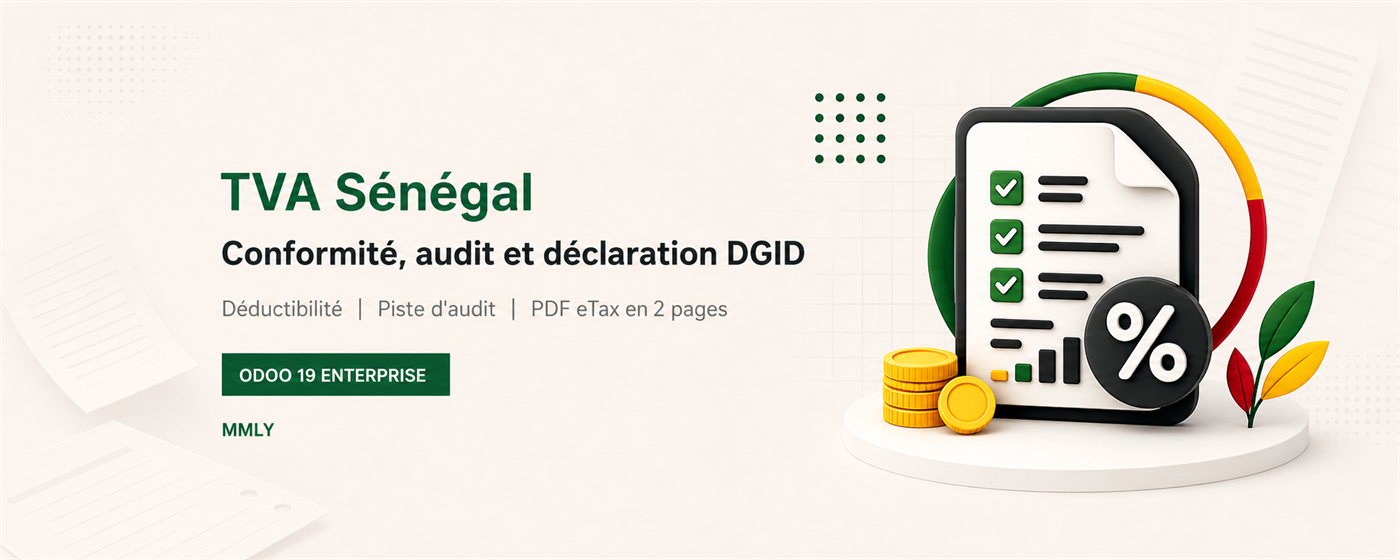
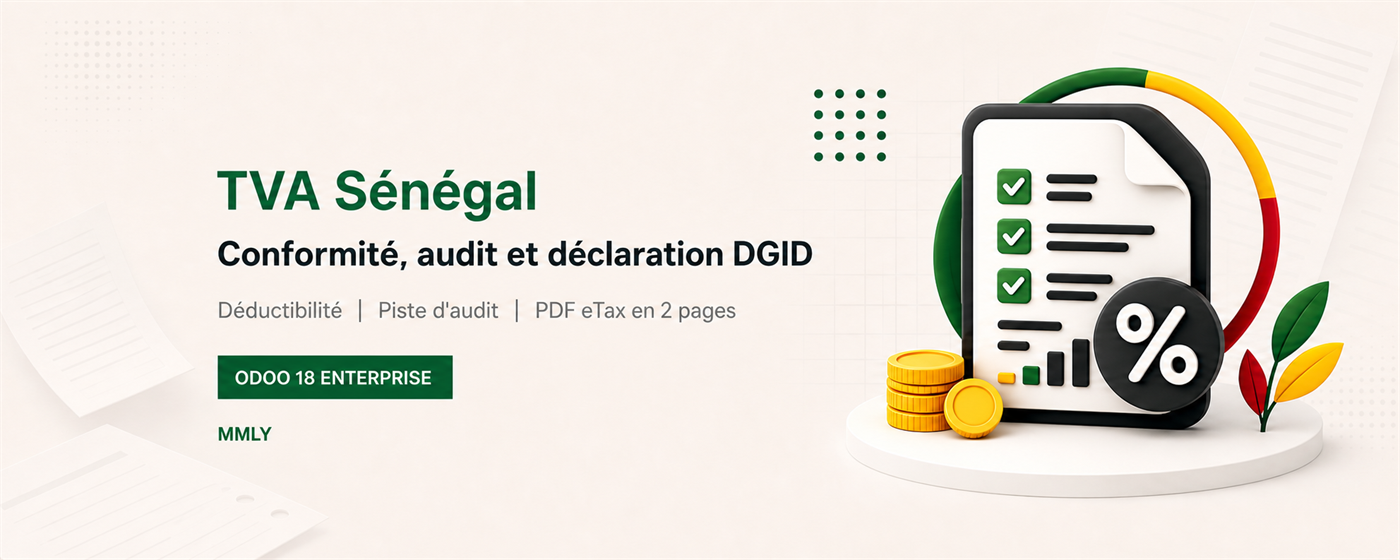
Port Senegal VAT Compliance to Odoo 18

diff --git a/l10n_sn_vat_compliance/static/description/index.html b/l10n_sn_vat_compliance/static/description/index.html
@@ -1,6 +1,6 @@
 <section class="oe_container">
     <div class="oe_row oe_spaced text-center">
-        <h1 class="text-success">Senegal VAT for Odoo 19 Enterprise</h1>
+        <h1 class="text-success">Senegal VAT for Odoo 18 Enterprise</h1>
         <h3>Compliance control, audit trail and DGID/eTax declaration</h3>
         <p class="lead">
             Secure the preparation of your Senegalese VAT return directly
@@ -59,6 +59,6 @@
             engine and adds documentary controls, an audit workspace and
             operational PDF printing.
         </p>
-        <p>Compatible with Odoo 19 Enterprise - developed by MMLY.</p>
+        <p>Compatible with Odoo 18 Enterprise - developed by MMLY.</p>
     </div>
 </section>

diff --git a/l10n_sn_vat_compliance/__manifest__.py b/l10n_sn_vat_compliance/__manifest__.py
@@ -1,10 +1,10 @@
 {
     "name": "Senegal VAT Compliance",
-    "version": "19.0.1.0.0",
+    "version": "18.0.1.0.0",
     "category": "Accounting/Localizations",
     "summary": "Senegal VAT compliance, audit trail and DGID/eTax PDF declaration",
     "description": """
-Extension for the Senegal accounting localization in Odoo 19 Enterprise.
+Extension for the Senegal accounting localization in Odoo 18 Enterprise.
 
 The module extends l10n_sn and l10n_sn_reports with:
 - partner NINEA information;

diff --git a/l10n_sn_vat_compliance/README.md b/l10n_sn_vat_compliance/README.md
@@ -1,4 +1,4 @@
-# Contrôle de conformité TVA Sénégal — Odoo 19
+# Contrôle de conformité TVA Sénégal — Odoo 18
 
 Développé et maintenu par **MMLY**.
 
@@ -32,10 +32,21 @@ Exemple de chemin :
 addons_path = C:\...\odoo\addons,C:\...\custom_addons
 ```
 
+## Test sur Odoo.sh
+
+1. Utiliser la branche Git `18.0` dans un staging Odoo.sh basé sur Odoo 18
+   Enterprise.
+2. Vérifier que les applications **Sénégal - Comptabilité** (`l10n_sn`) et
+   **Sénégal - Rapports comptables** (`l10n_sn_reports`) sont disponibles.
+3. Dans le mode développeur, actualiser la liste des applications.
+4. Rechercher puis installer **Senegal VAT Compliance**.
+5. Tester le contrôle TVA et l'impression PDF avec une copie de la base avant
+   toute utilisation fiscale réelle.
+
 ## Important
 
 Le taux et les lignes de déclaration sont ceux de la localisation officielle
-Odoo 19 installée. La qualification juridique d'une opération, d'une
+Odoo 18 Enterprise installée. La qualification juridique d'une opération, d'une
 exonération ou d'un droit à déduction doit être validée par le responsable
 fiscal ou le conseil de l'entreprise avant dépôt auprès de la DGID.
 